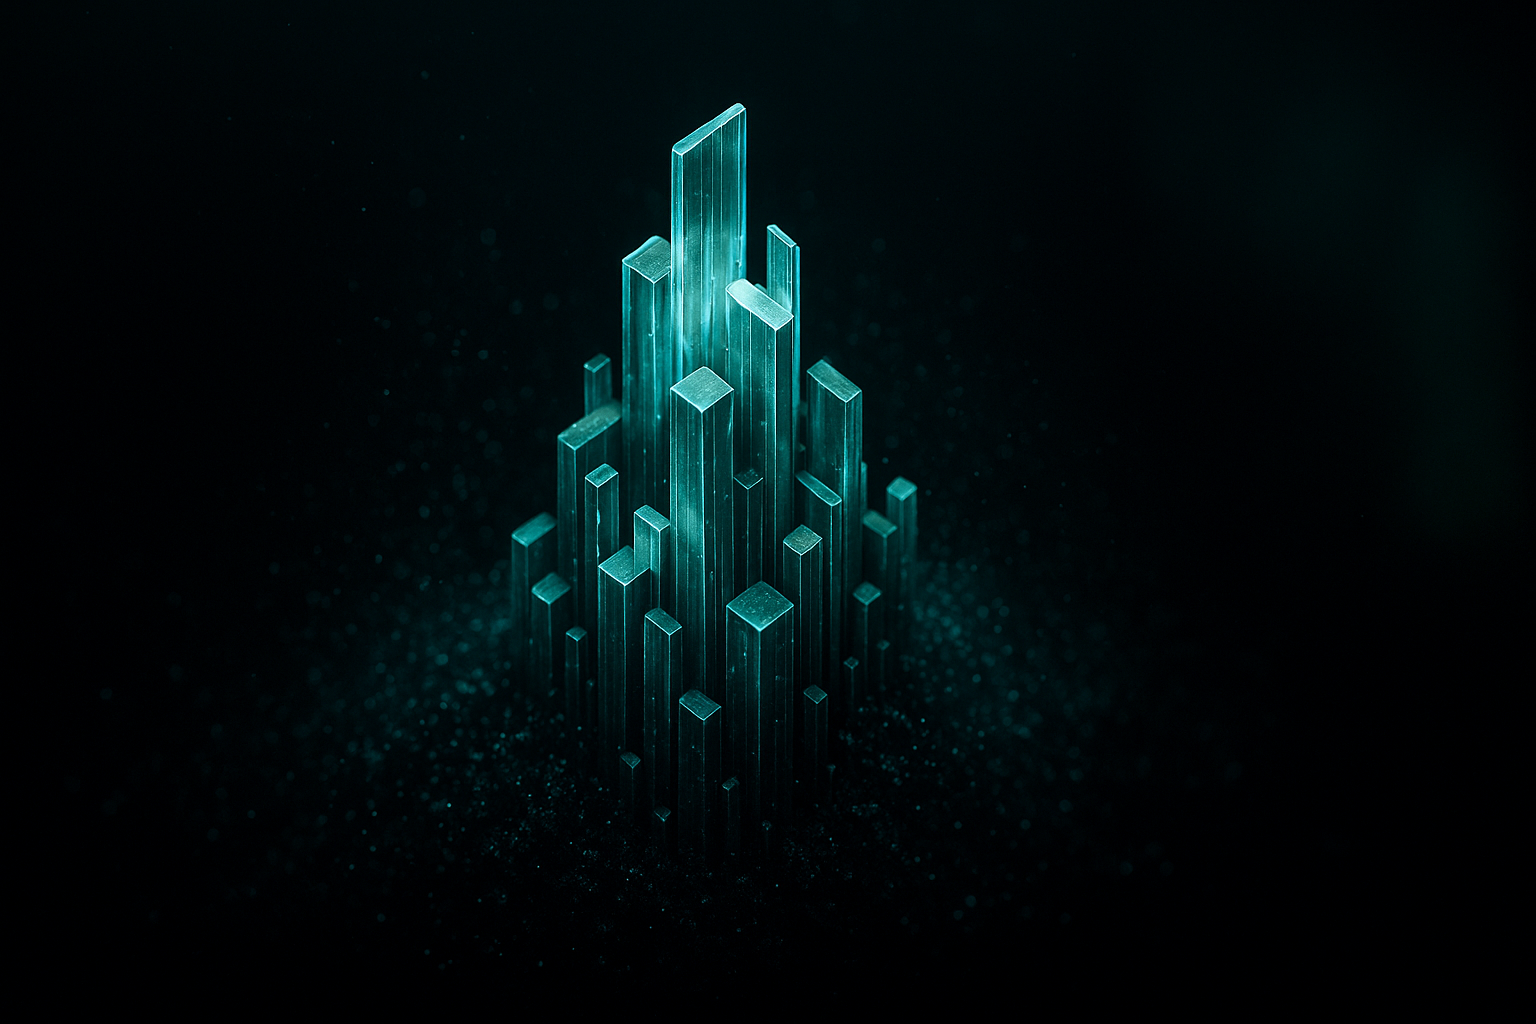
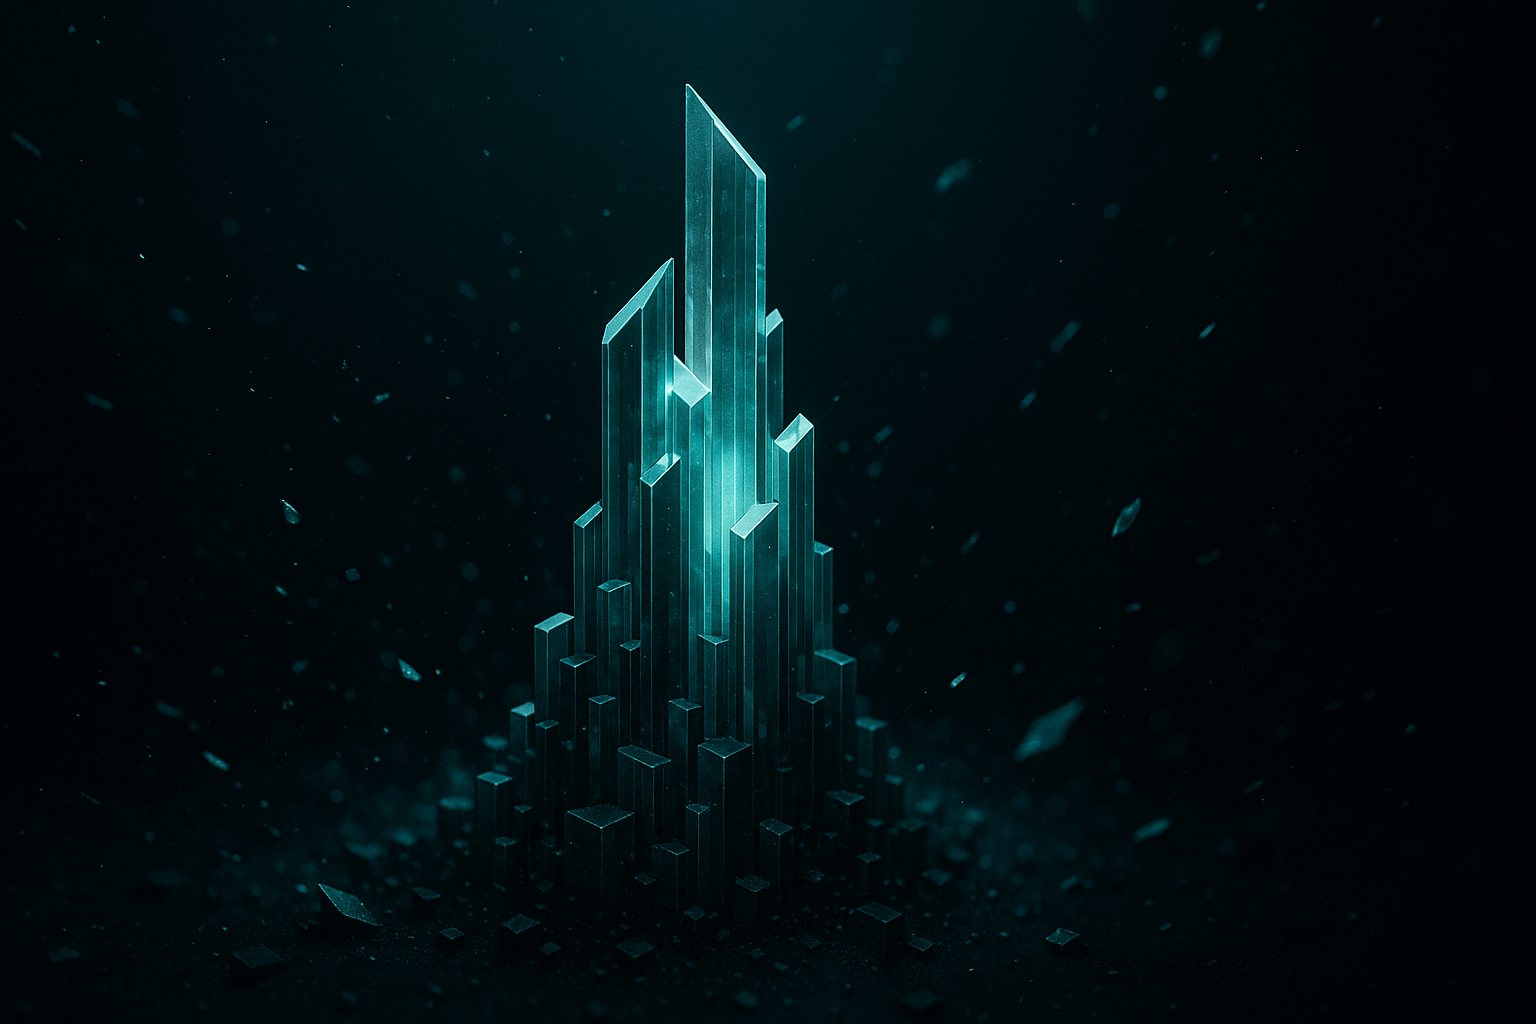
fix: unique hero images for all 6 EN blog posts

diff --git a/src/content/blog/2026-03-21-first-party-data-b2b-marketing-2026.md b/src/content/blog/2026-03-21-first-party-data-b2b-marketing-2026.md
@@ -2,7 +2,7 @@
 title: 'First-Party Data: Why B2B Marketers Lose in 2026'
 description: 'Tracking erosion is killing third-party data. B2B marketers without a first-party data strategy are bleeding revenue silently. Here is what to do instead.'
 pubDate: '2026-03-21'
-heroImage: "/blog/agentic-ai-revenue-impact-hero.png"
+heroImage: "/blog/first-party-data-b2b-marketing-2026-hero.png"
 tags: ['revenue-systems', 'first-party-data', 'b2b-marketing', 'data-strategy']
 lang: "en"
 ---

diff --git a/src/content/blog/2026-03-21-fortune-500-ai-agents-smb-playbook.md b/src/content/blog/2026-03-21-fortune-500-ai-agents-smb-playbook.md
@@ -2,7 +2,7 @@
 title: 'Fortune 500 AI Agents: The SMB Playbook for 2026'
 description: '67% of Fortune 500 companies now run AI agents. Here is how small businesses and coaches can match their leverage without the headcount.'
 pubDate: '2026-03-21'
-heroImage: "/blog/agentic-ai-revenue-impact-hero.png"
+heroImage: "/blog/fortune-500-ai-agents-smb-playbook-hero.png"
 tags: ['revenue-systems', 'ai-agents', 'business-automation', 'sme-growth']
 lang: "en"
 ---
